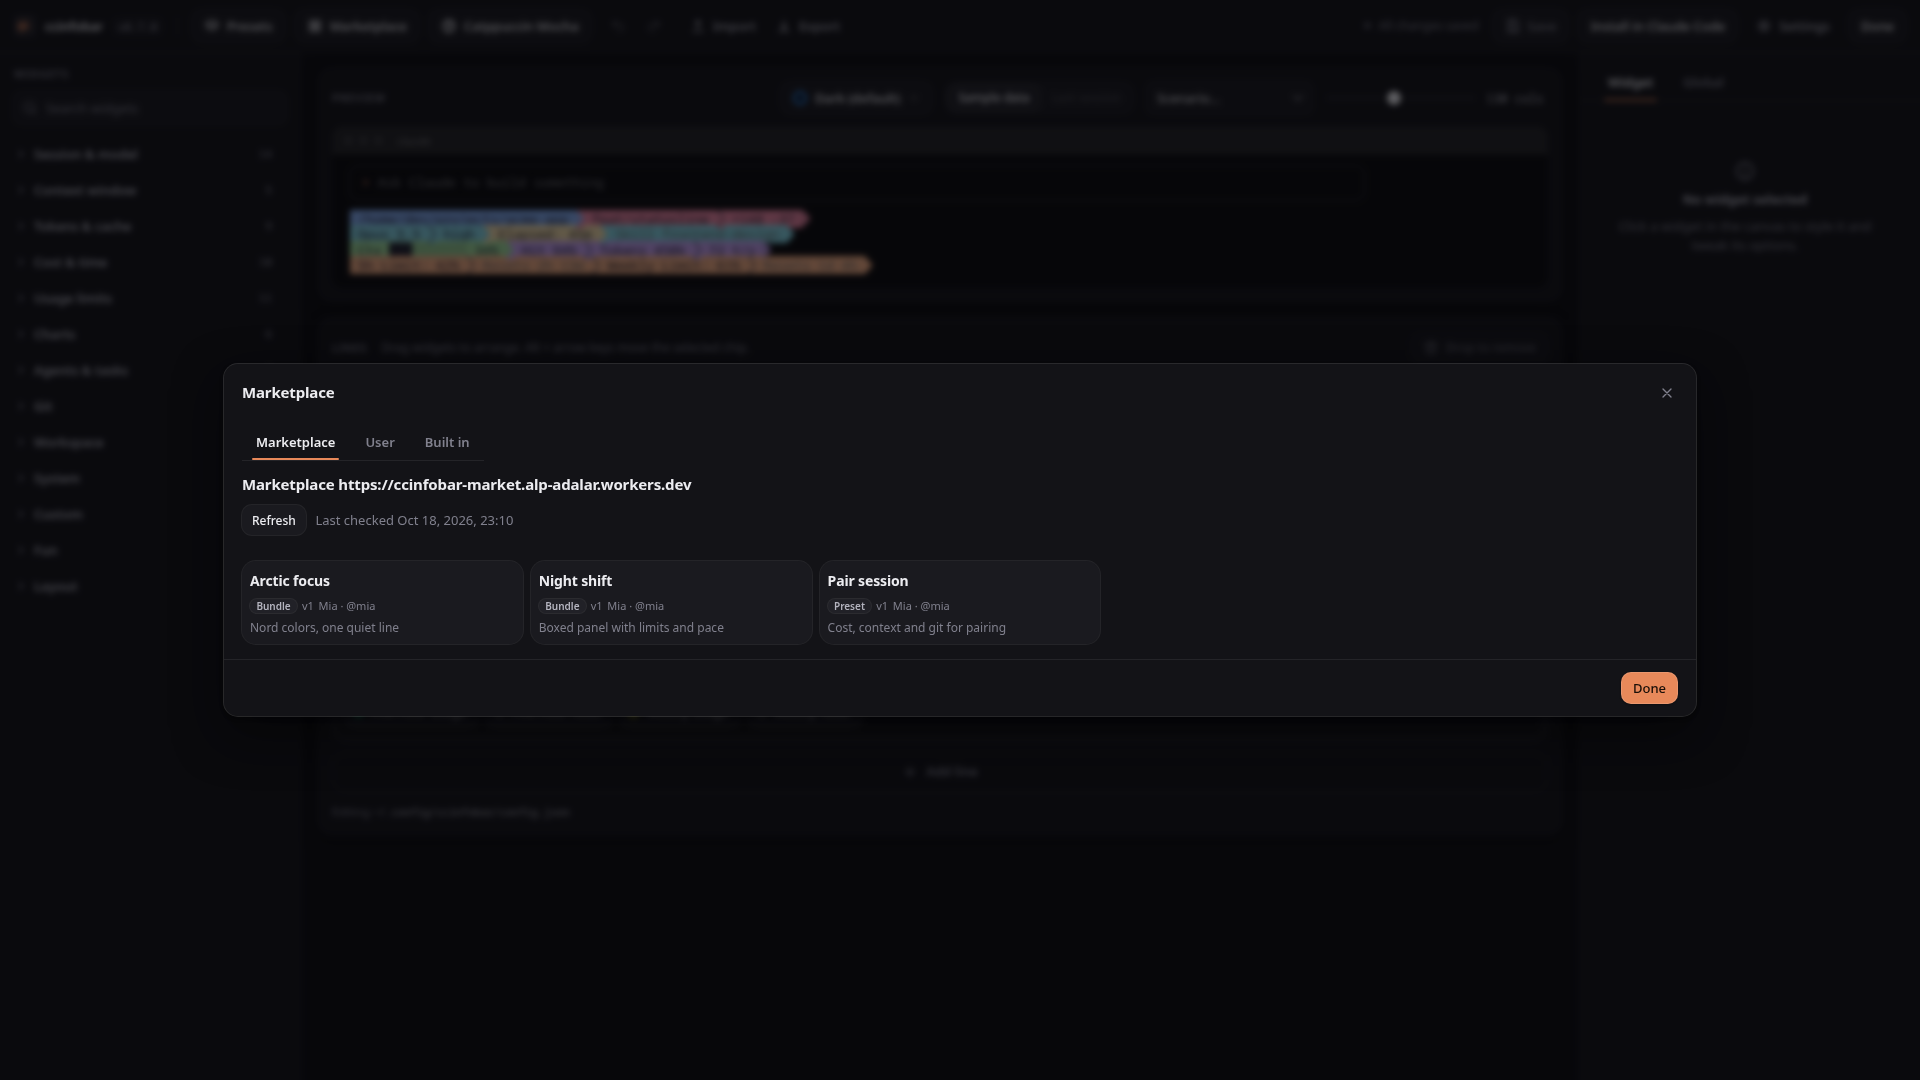
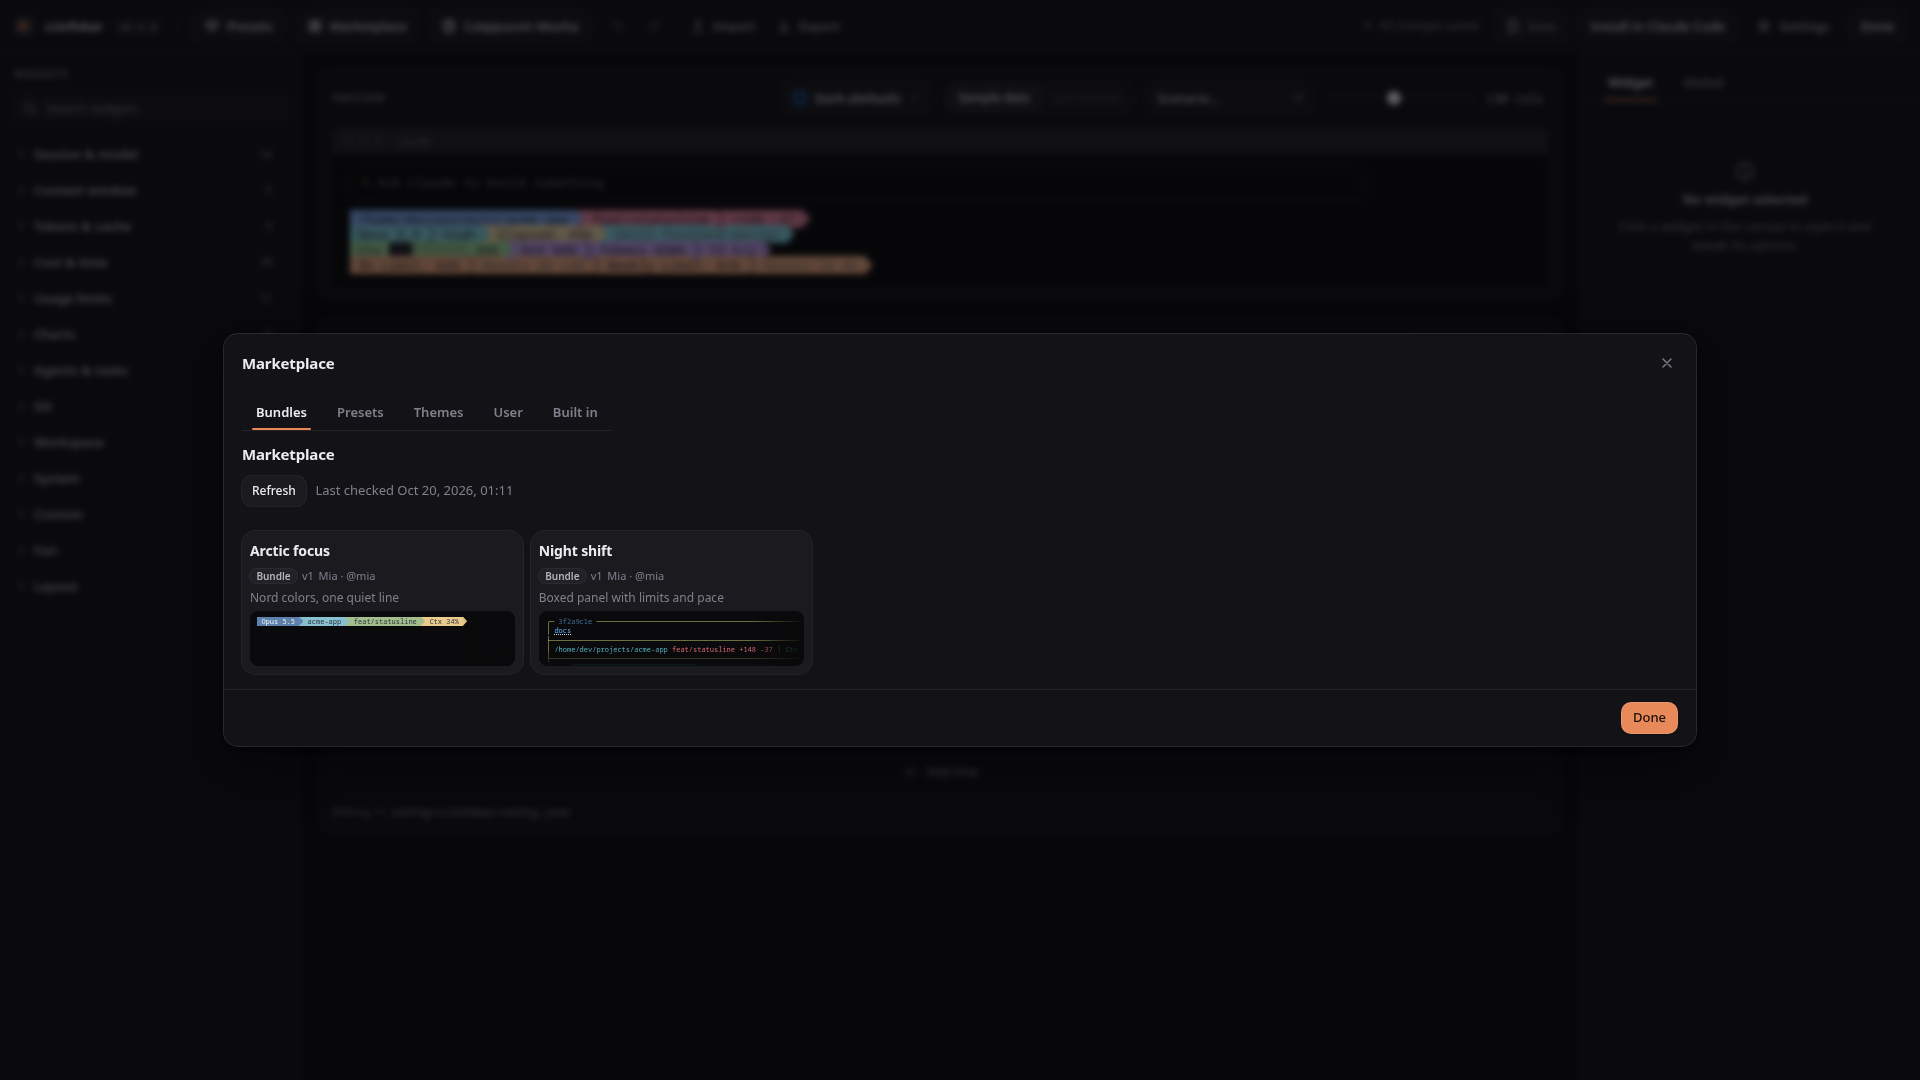
docs: refresh marketplace screenshots and note preview downloads in README

diff --git a/README.md b/README.md
@@ -444,7 +444,7 @@ ccinfobar catalog history "My setup"          # versions, then `catalog restore 
 
 ### Marketplace
 
-The ccinfobar marketplace is free, open source and non-commercial, and runs on Cloudflare Workers Free with D1. It runs at https://ccinfobar-market.alp-adalar.workers.dev, which is the default endpoint. When it is off (`ccinfobar catalog endpoint --off` or `CCINFOBAR_MARKETPLACE_URL=off`), nothing leaves your machine. ccinfobar contacts the marketplace only when you ask: never during a status line refresh, never in the background, and never from an editor left open. The list is cached for 24 hours, and **Refresh** sends one small request.
+The ccinfobar marketplace is free, open source and non-commercial, and runs on Cloudflare Workers Free with D1. It runs at https://ccinfobar-market.alp-adalar.workers.dev, which is the default endpoint. When it is off (`ccinfobar catalog endpoint --off` or `CCINFOBAR_MARKETPLACE_URL=off`), nothing leaves your machine. ccinfobar contacts the marketplace only when you ask: never during a status line refresh, never in the background, and never from an editor left open. The list is cached for 24 hours, and **Refresh** sends one small request. A card preview downloads that entry's latest version once, checks it against the hash in the list and keeps it in the cache.
 
 ```sh
 ccinfobar catalog list --remote               # browse the marketplace (cached; --refresh checks again)
